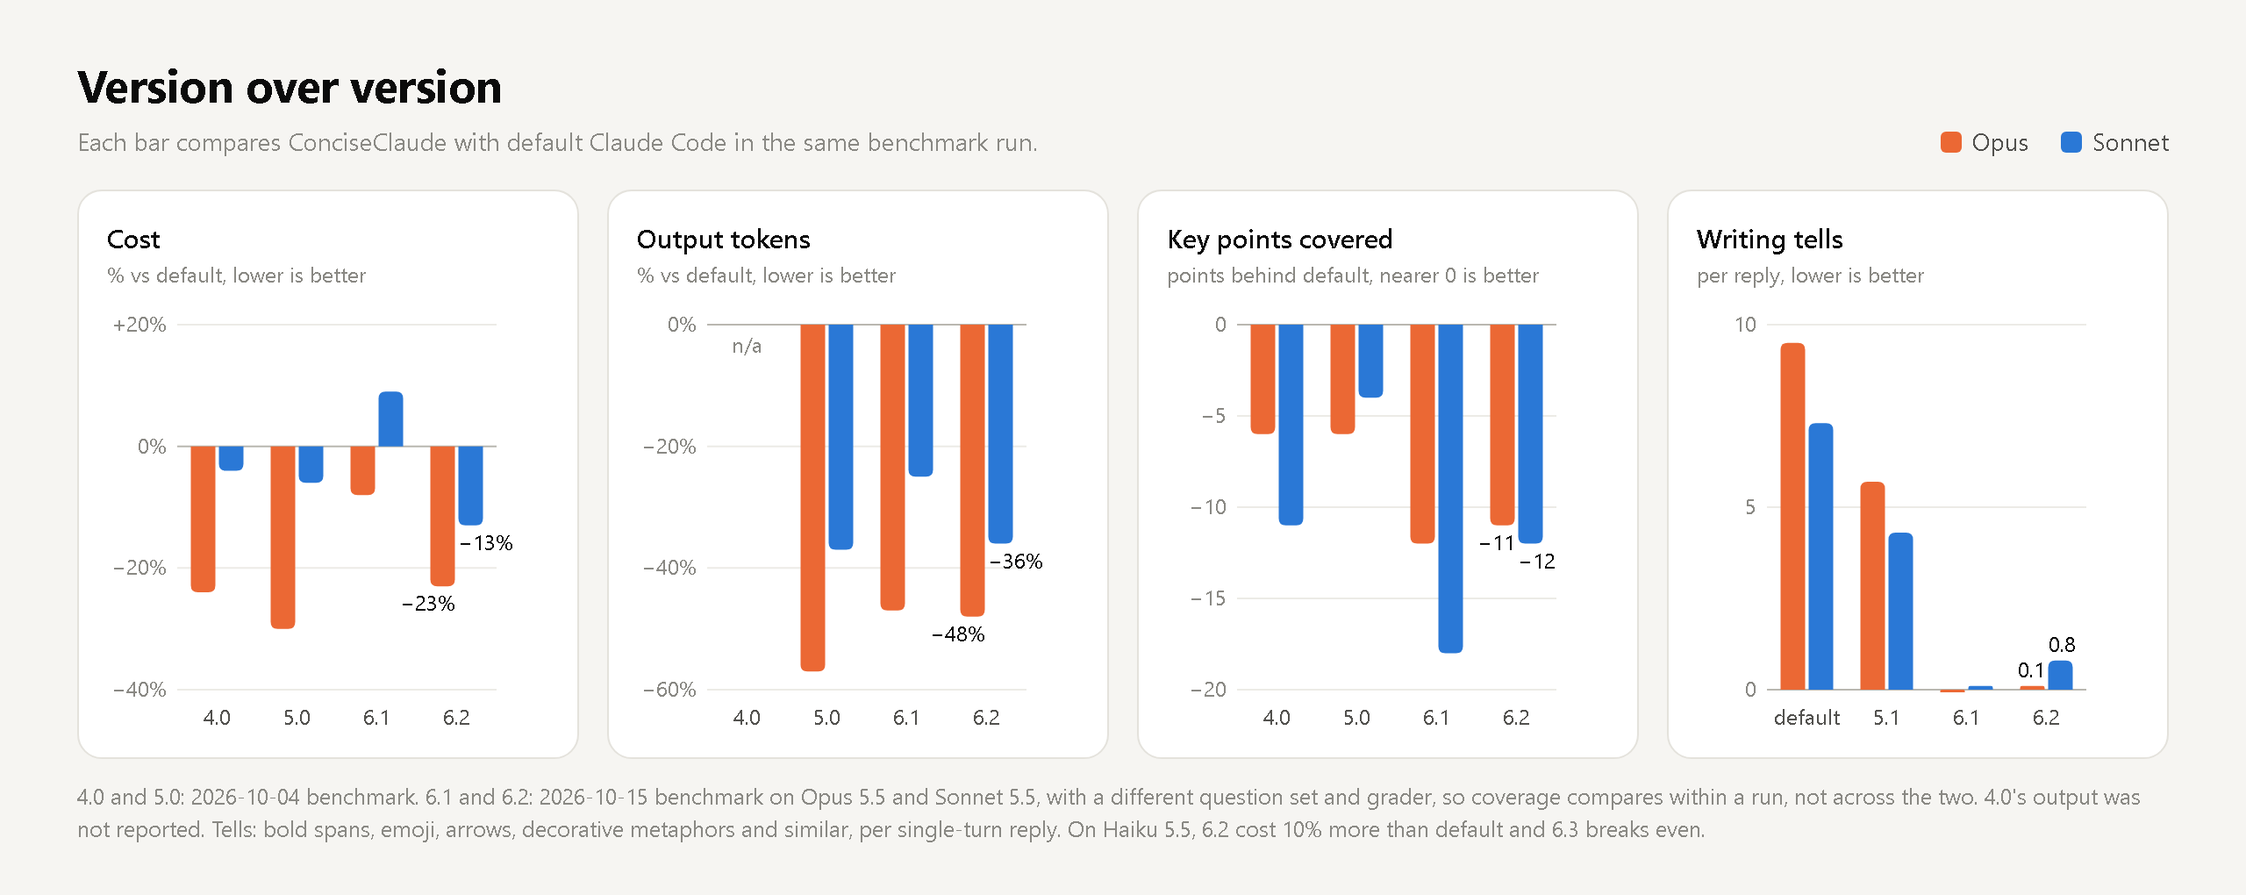
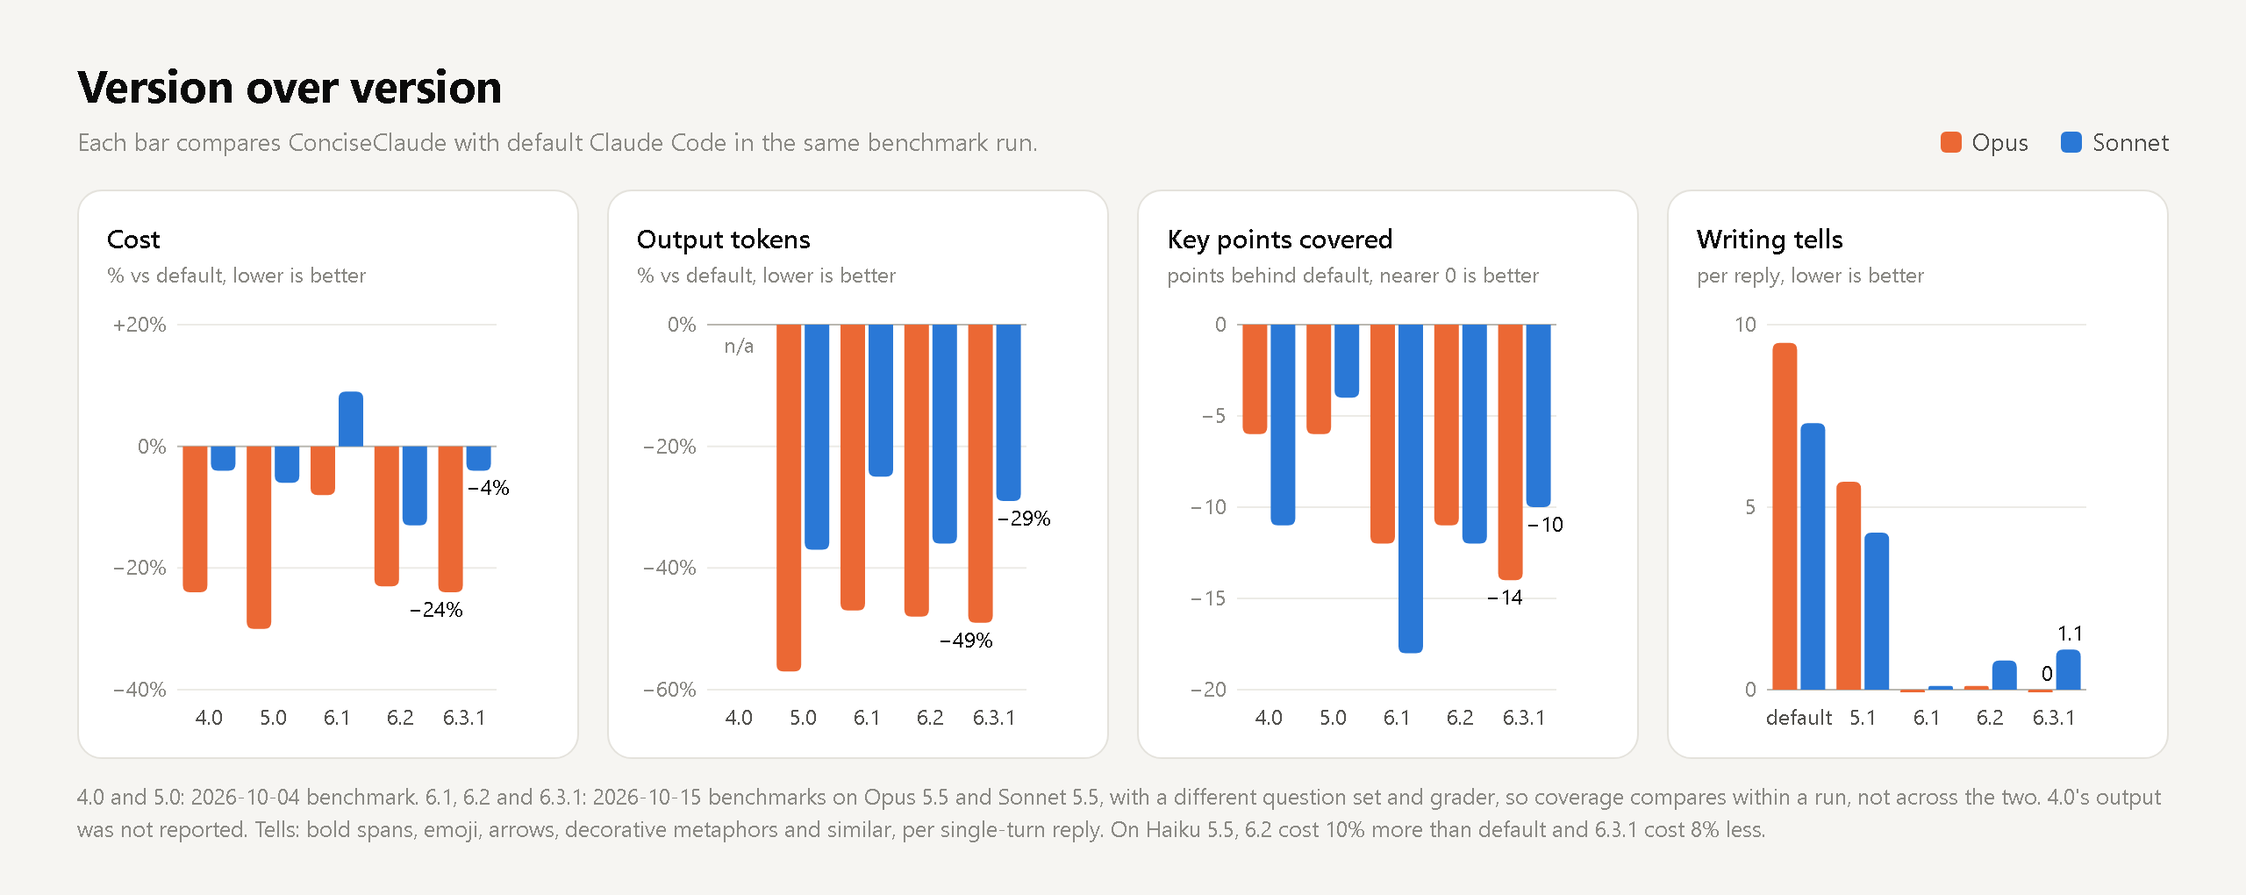
Benchmark 6.3.1 on Opus, Sonnet and Haiku (#20)
Default against 6.3.1 on all three 5.5 models, every case twice, 348
turns, single-turn replies graded blind. Cost fell 24% on Opus, 4% on
Sonnet and 8% on Haiku; coverage 83 to 88% against 92 to 97%. The README
charts, write-up and Pages site now show 6.3.1, and the version chart
gains a 6.3.1 column.

Claude-Session: https://claude.ai/code/session_01UvB1AdHypAfKyfQqcSoAv2

diff --git a/assets/src/results.html b/assets/src/results.html
@@ -1,15 +1,15 @@
 <!doctype html>
 <html><head><meta charset="utf-8">
 <style>
-:root { --bg:#f6f5f2; --card:#ffffff; --border:#e4e2dc; --ink:#0b0b0b; --ink2:#52514e; --muted:#8a8984; --s:#2a78d6; --o:#eb6834; --grid:#ecebe6; }
-@media (prefers-color-scheme: dark) { :root { --bg:#141413; --card:#1d1d1b; --border:#2e2e2b; --ink:#f5f4ef; --ink2:#c3c2b7; --muted:#8f8e86; --s:#3987e5; --o:#d95926; --grid:#2a2a27; } }
+:root { --bg:#f6f5f2; --card:#ffffff; --border:#e4e2dc; --ink:#0b0b0b; --ink2:#52514e; --muted:#8a8984; --s:#2a78d6; --o:#eb6834; --h:#1baf7a; --grid:#ecebe6; }
+@media (prefers-color-scheme: dark) { :root { --bg:#141413; --card:#1d1d1b; --border:#2e2e2b; --ink:#f5f4ef; --ink2:#c3c2b7; --muted:#8f8e86; --s:#3987e5; --o:#d95926; --h:#199e70; --grid:#2a2a27; } }
 * { box-sizing: border-box; margin: 0; }
-html, body { width: 1280px; height: 420px; background: var(--bg); color: var(--ink); font: 16px/1.4 "Segoe UI", system-ui, sans-serif; }
+html, body { width: 1280px; height: 490px; background: var(--bg); color: var(--ink); font: 16px/1.4 "Segoe UI", system-ui, sans-serif; }
 .wrap { padding: 36px 56px; }
-.top { display: flex; justify-content: space-between; align-items: baseline; margin-bottom: 22px; }
+.top { display: flex; gap: 40px; justify-content: space-between; align-items: baseline; margin-bottom: 22px; }
 h2 { font-size: 26px; font-weight: 700; letter-spacing: -0.01em; }
 .sub { color: var(--muted); font-size: 14px; margin-top: 4px; }
-.legend { display: flex; gap: 18px; font-size: 14px; color: var(--ink2); }
+.legend { display: flex; flex-shrink: 0; white-space: nowrap; gap: 18px; font-size: 14px; color: var(--ink2); }
 .sw { display: inline-block; width: 12px; height: 12px; border-radius: 3px; margin-right: 6px; vertical-align: -1px; }
 .grid { display: grid; grid-template-columns: 1.5fr 1fr; gap: 20px; }
 .card { background: var(--card); border: 1px solid var(--border); border-radius: 14px; padding: 22px 26px; }
@@ -17,34 +17,36 @@ h2 { font-size: 26px; font-weight: 700; letter-spacing: -0.01em; }
 .row { display: grid; grid-template-columns: 130px 1fr; align-items: center; margin: 10px 0; }
 .row .lab { font-size: 14px; color: var(--ink2); }
 .bars { display: grid; gap: 4px; }
-.bar { height: 18px; border-radius: 0 4px 4px 0; position: relative; }
-.bar span { position: absolute; left: calc(100% + 8px); top: -1px; font-size: 13px; font-weight: 600; color: var(--ink); white-space: nowrap; }
+.bar { height: 14px; border-radius: 0 4px 4px 0; position: relative; }
+.bar span { position: absolute; left: calc(100% + 8px); top: -3px; font-size: 13px; font-weight: 600; color: var(--ink); white-space: nowrap; }
 .cov { display: grid; grid-template-columns: 1fr auto auto; gap: 10px 22px; align-items: baseline; font-size: 14px; }
 .cov .h { color: var(--muted); font-size: 12.5px; }
 .cov b { font-size: 22px; font-weight: 700; }
+.bar span em { font-style: normal; font-weight: 400; color: var(--ink2); margin-left: 6px; }
 .note { color: var(--muted); font-size: 12.5px; margin-top: 14px; line-height: 1.45; }
 </style></head>
 <body><div class="wrap">
   <div class="top">
-    <div><h2>Measured, not promised</h2><p class="sub">Opus 5.5 and Sonnet 5.5, default vs ConciseClaude 6.2, every case run twice, depth question excluded. Single-turn replies graded blind against key-point checklists.</p></div>
-    <div class="legend"><span><i class="sw" style="background:var(--s)"></i>Sonnet</span><span><i class="sw" style="background:var(--o)"></i>Opus</span></div>
+    <div><h2>Measured, not promised</h2><p class="sub">Opus, Sonnet and Haiku 5.5, default vs ConciseClaude 6.3.1, every case run twice, depth question excluded. Single-turn replies graded blind against key-point checklists.</p></div>
+    <div class="legend"><span><i class="sw" style="background:var(--o)"></i>Opus</span><span><i class="sw" style="background:var(--s)"></i>Sonnet</span><span><i class="sw" style="background:var(--h)"></i>Haiku</span></div>
   </div>
   <div class="grid">
     <div class="card">
       <h3>Reduction vs default</h3>
-      <div class="row"><div class="lab">Reply length</div><div class="bars"><div class="bar" style="width:61%;background:var(--s)"><span>−61%</span></div><div class="bar" style="width:64%;background:var(--o)"><span>−64%</span></div></div></div>
-      <div class="row"><div class="lab">Output tokens</div><div class="bars"><div class="bar" style="width:36%;background:var(--s)"><span>−36%</span></div><div class="bar" style="width:48%;background:var(--o)"><span>−48%</span></div></div></div>
-      <div class="row"><div class="lab">Wait time</div><div class="bars"><div class="bar" style="width:22%;background:var(--s)"><span>−22%</span></div><div class="bar" style="width:34%;background:var(--o)"><span>−34%</span></div></div></div>
-      <div class="row"><div class="lab">Cost</div><div class="bars"><div class="bar" style="width:13%;background:var(--s)"><span>−13%</span></div><div class="bar" style="width:23%;background:var(--o)"><span>−23%</span></div></div></div>
+      <div class="row"><div class="lab">Reply length</div><div class="bars"><div class="bar" style="width:67%;background:var(--o)"><span>−67%<em>Opus</em></span></div><div class="bar" style="width:60%;background:var(--s)"><span>−60%<em>Sonnet</em></span></div><div class="bar" style="width:46%;background:var(--h)"><span>−46%<em>Haiku</em></span></div></div></div>
+      <div class="row"><div class="lab">Output tokens</div><div class="bars"><div class="bar" style="width:49%;background:var(--o)"><span>−49%</span></div><div class="bar" style="width:29%;background:var(--s)"><span>−29%</span></div><div class="bar" style="width:28%;background:var(--h)"><span>−28%</span></div></div></div>
+      <div class="row"><div class="lab">Wait time</div><div class="bars"><div class="bar" style="width:37%;background:var(--o)"><span>−37%</span></div><div class="bar" style="width:17%;background:var(--s)"><span>−17%</span></div><div class="bar" style="width:17%;background:var(--h)"><span>−17%</span></div></div></div>
+      <div class="row"><div class="lab">Cost</div><div class="bars"><div class="bar" style="width:24%;background:var(--o)"><span>−24%</span></div><div class="bar" style="width:4%;background:var(--s)"><span>−4%</span></div><div class="bar" style="width:8%;background:var(--h)"><span>−8%</span></div></div></div>
     </div>
     <div class="card">
       <h3>What it keeps</h3>
       <div class="cov">
         <span class="h">Key points covered</span><span class="h">Default</span><span class="h">Concise</span>
-        <span>Sonnet</span><b>95%</b><b>83%</b>
-        <span>Opus</span><b>98%</b><b>87%</b>
+        <span>Opus</span><b>97%</b><b>83%</b>
+        <span>Sonnet</span><b>94%</b><b>84%</b>
+        <span>Haiku</span><b>92%</b><b>88%</b>
       </div>
-      <p class="note">Asked for depth, it gives depth. No reply was judged too terse. Cost falls most in conversation, is level in coding, and rises only for a single cold question.</p>
+      <p class="note">Asked for depth, it gives depth. No reply was judged too terse. The saving is in conversation; a coding session or a single cold question costs about the same as default or a little more.</p>
     </div>
   </div>
 </div></body></html>

diff --git a/assets/src/versions.html b/assets/src/versions.html
@@ -24,18 +24,18 @@ svg text { font: 12px "Segoe UI", system-ui, sans-serif; }
     <div class="legend"><span><i class="sw" style="background:var(--o)"></i>Opus</span><span><i class="sw" style="background:var(--s)"></i>Sonnet</span></div>
   </div>
   <div class="grid" id="grid"></div>
-  <p class="note">4.0 and 5.0: 2026-10-04 benchmark. 6.1 and 6.2: 2026-10-15 benchmark on Opus 5.5 and Sonnet 5.5, with a different question set and grader, so coverage compares within a run, not across the two. 4.0's output was not reported. Tells: bold spans, emoji, arrows, decorative metaphors and similar, per single-turn reply. On Haiku 5.5, 6.2 cost 10% more than default and 6.3 breaks even.</p>
+  <p class="note">4.0 and 5.0: 2026-10-04 benchmark. 6.1, 6.2 and 6.3.1: 2026-10-15 benchmarks on Opus 5.5 and Sonnet 5.5, with a different question set and grader, so coverage compares within a run, not across the two. 4.0's output was not reported. Tells: bold spans, emoji, arrows, decorative metaphors and similar, per single-turn reply. On Haiku 5.5, 6.2 cost 10% more than default and 6.3.1 cost 8% less.</p>
 </div>
 <script>
 const panels = [
-  { title: "Cost", sub: "% vs default, lower is better", x: ["4.0", "5.0", "6.1", "6.2"],
-    opus: [-24, -30, -8, -23], sonnet: [-4, -6, 9, -13], min: -40, max: 20, step: 20, unit: "%" },
-  { title: "Output tokens", sub: "% vs default, lower is better", x: ["4.0", "5.0", "6.1", "6.2"],
-    opus: [null, -57, -47, -48], sonnet: [null, -37, -25, -36], min: -60, max: 0, step: 20, unit: "%" },
-  { title: "Key points covered", sub: "points behind default, nearer 0 is better", x: ["4.0", "5.0", "6.1", "6.2"],
-    opus: [-6, -6, -12, -11], sonnet: [-11, -4, -18, -12], min: -20, max: 0, step: 5, unit: "" },
-  { title: "Writing tells", sub: "per reply, lower is better", x: ["default", "5.1", "6.1", "6.2"],
-    opus: [9.5, 5.7, 0, 0.1], sonnet: [7.3, 4.3, 0.1, 0.8], min: 0, max: 10, step: 5, unit: "" },
+  { title: "Cost", sub: "% vs default, lower is better", x: ["4.0", "5.0", "6.1", "6.2", "6.3.1"],
+    opus: [-24, -30, -8, -23, -24], sonnet: [-4, -6, 9, -13, -4], min: -40, max: 20, step: 20, unit: "%" },
+  { title: "Output tokens", sub: "% vs default, lower is better", x: ["4.0", "5.0", "6.1", "6.2", "6.3.1"],
+    opus: [null, -57, -47, -48, -49], sonnet: [null, -37, -25, -36, -29], min: -60, max: 0, step: 20, unit: "%" },
+  { title: "Key points covered", sub: "points behind default, nearer 0 is better", x: ["4.0", "5.0", "6.1", "6.2", "6.3.1"],
+    opus: [-6, -6, -12, -11, -14], sonnet: [-11, -4, -18, -12, -10], min: -20, max: 0, step: 5, unit: "" },
+  { title: "Writing tells", sub: "per reply, lower is better", x: ["default", "5.1", "6.1", "6.2", "6.3.1"],
+    opus: [9.5, 5.7, 0, 0.1, 0], sonnet: [7.3, 4.3, 0.1, 0.8, 1.1], min: 0, max: 10, step: 5, unit: "" },
 ];
 const W = 250, H = 250, L = 40, R = 28, T = 16, B = 26, BAR = 14, GAP = 2;
 const ns = "http://www.w3.org/2000/svg";

diff --git a/docs/index.html b/docs/index.html
@@ -4,7 +4,7 @@
 <meta charset="utf-8">
 <meta name="viewport" content="width=device-width, initial-scale=1">
 <title>ConciseClaude: Claude Code that gets to the point</title>
-<meta name="description" content="A Claude Code plugin for shorter answers with the same work behind them. Benchmarked: Opus replies 64% shorter at 23% lower cost.">
+<meta name="description" content="A Claude Code plugin for shorter answers with the same work behind them. Benchmarked: Opus replies 67% shorter at 24% lower cost.">
 <meta property="og:title" content="ConciseClaude">
 <meta property="og:description" content="Claude Code that gets to the point. Same work, a third of the words.">
 <meta property="og:image" content="https://raw.githubusercontent.com/drknowhow/ConciseClaude/main/assets/hero-light.png">
@@ -61,9 +61,9 @@ claude plugin install conciseclaude@conciseclaude</pre>
   </div>
 
   <h2>Benchmarked</h2>
-  <p>Default against ConciseClaude 6.2 on Opus 5.5, Sonnet 5.5 and Haiku 5.5, every case run twice, single-turn replies graded blind against key-point checklists. On Opus, replies came out 64% shorter, cost fell 23% and answers arrived 34% sooner, while covering 87% of key points against 98% for the default. Sonnet cost fell 13%; Haiku broke even.</p>
+  <p>Default against ConciseClaude 6.3.1 on Opus 5.5, Sonnet 5.5 and Haiku 5.5, every case run twice, single-turn replies graded blind against key-point checklists. On Opus, replies came out 67% shorter, cost fell 24% and answers arrived 37% sooner, while covering 83% of key points against 97% for the default. Cost fell 4% on Sonnet and 8% on Haiku.</p>
   <div class="cta">
-    <a class="btn primary" href="https://github.com/drknowhow/ConciseClaude/blob/main/docs/bench-2026-10-15-v6.md">Read the 6.2 benchmark</a>
+    <a class="btn primary" href="https://github.com/drknowhow/ConciseClaude/blob/main/docs/bench-2026-10-15-v6.md">Read the 6.3.1 benchmark</a>
     <a class="btn ghost" href="benchmark/">5.0 interactive benchmark</a>
     <a class="btn ghost" href="https://github.com/drknowhow/ConciseClaude">View on GitHub</a>
   </div>

diff --git a/README.md b/README.md
@@ -7,7 +7,7 @@
 <p align="center"><b>Claude Code that gets to the point. Same work, a third of the words.</b></p>
 
 <p align="center">
-  <a href="docs/bench-2026-10-15-v6.md"><img src="https://img.shields.io/badge/benchmark-6.2,_graded_blind-2a78d6" alt="Benchmark"></a>
+  <a href="docs/bench-2026-10-15-v6.md"><img src="https://img.shields.io/badge/benchmark-6.3.1,_graded_blind-2a78d6" alt="Benchmark"></a>
   <a href="CHANGELOG.md"><img src="https://img.shields.io/badge/dynamic/json?url=https%3A%2F%2Fraw.githubusercontent.com%2Fdrknowhow%2FConciseClaude%2Fmain%2F.claude-plugin%2Fplugin.json&query=%24.version&label=version&color=1baf7a" alt="Version"></a>
   <img src="https://img.shields.io/badge/Claude_Code-plugin-eb6834" alt="Claude Code plugin">
   <a href="LICENSE"><img src="https://img.shields.io/badge/license-Apache--2.0-52514e" alt="License"></a>
@@ -29,18 +29,18 @@ you get it, and errors, risks and safety steps are never trimmed. Code comes
 without commentary, and a meter measures every reply so the rules don't
 drift.
 
-In the 6.2 benchmark ([write-up](docs/bench-2026-10-15-v6.md)), replies on
-Opus 5.5 and Sonnet 5.5 were about 62% shorter, output tokens fell 48% and
-36%, and replies arrived 34% and 22% sooner. Cost fell 23% on Opus and 13%
-on Sonnet: most in conversation, level in coding, slightly up only for a
-single cold question. Blind graders found 85% of the key points a full
-answer covers, against 96% for the default, with no reply judged too terse.
+In the 6.3.1 benchmark ([write-up](docs/bench-2026-10-15-v6.md)), replies
+were 67% shorter on Opus 5.5, 60% on Sonnet 5.5 and 46% on Haiku 5.5. Cost
+fell 24%, 4% and 8%. The saving is in conversation; a coding session or a
+single cold question costs about the same as default or a little more.
+Blind graders found 83 to 88% of the key points a full answer covers,
+against 92 to 97% for the default, with no reply judged too terse.
 A Stop hook scores every reply and nudges Claude when one runs long;
 `/conciseclaude:meter report` shows how it's doing.
 
 <picture>
   <source media="(prefers-color-scheme: dark)" srcset="assets/results-dark.png">
-  <img src="assets/results-light.png" alt="Benchmark: reply length, output tokens, wait time and cost reductions on Sonnet and Opus, with key points covered.">
+  <img src="assets/results-light.png" alt="Benchmark of 6.3.1: reply length, output tokens, wait time and cost reductions on Opus, Sonnet and Haiku, with key points covered.">
 </picture>
 
 ## Install
@@ -55,9 +55,8 @@ is enabled, even if you've chosen another output style. To turn it off, run
 from Git Bash. Without Python the rules still apply; replies just aren't
 measured.
 
-The rules apply to Opus, Sonnet and Haiku. On Haiku 5.5 the plugin breaks
-even on cost: most of Haiku's output is hidden thinking, which the style
-doesn't shorten, so the saving on replies only pays for the rule text.
+The rules apply to Opus, Sonnet and Haiku. Haiku saves the least: most of
+its output is hidden thinking, which the style doesn't shorten.
 
 To upgrade, run `claude plugin update conciseclaude@conciseclaude` and
 restart. To measure commits too, run `/conciseclaude:diff-hooks` in each repo
@@ -117,8 +116,8 @@ The rules name each pattern and give the replacement: cut points instead of
 words, use the literal word, say what was checked and what wasn't. The
 `human-prose` skill applies the same list to PR descriptions, docs and
 email. The meter counts the patterns in every reply and `report` shows the
-rates. In the 6.2 benchmark they fell from 7 to 10 per reply on the default
-style to under one.
+rates. In the 6.3.1 benchmark they fell from 7 to 9 per reply on the
+default style to none on Opus, one on Sonnet and two on Haiku.
 
 ## What code and repo text look like
 The same rule set covers what Claude writes for other people to maintain
@@ -177,18 +176,20 @@ exceptions, forensic comments, dividers) and only warns on ratios.
 ## Evidence
 <picture>
   <source media="(prefers-color-scheme: dark)" srcset="assets/versions-dark.png">
-  <img src="assets/versions-light.png" alt="Versions 4.0, 5.0, 6.1 and 6.2 against the default style on Opus and Sonnet: cost, output tokens, key points covered, and writing tells per reply.">
+  <img src="assets/versions-light.png" alt="Versions 4.0, 5.0, 6.1, 6.2 and 6.3.1 against the default style on Opus and Sonnet: cost, output tokens, key points covered, and writing tells per reply.">
 </picture>
 
 Each release against the default style. 4.0 and 5.0 come from the
 2026-10-04 benchmark ([interactive page](https://drknowhow.github.io/ConciseClaude/benchmark/)),
-6.1 and 6.2 from the 2026-10-15 run ([write-up](docs/bench-2026-10-15-v6.md)),
+6.1 to 6.3.1 from the 2026-10-15 runs ([write-up](docs/bench-2026-10-15-v6.md)),
 which used a different question set and grader, so compare coverage within
 a run rather than across the two. 6.1 cut the writing tells to near zero but
 cost more than 5.0, mostly from longer rule text; 6.2 halved that text and
-won most of the cost back. Coverage is the open gap: 6.2 covers 85% of key
-points against 96% for the default. Haiku isn't plotted; there 6.2 cost 10%
-more than the default and 6.3 breaks even.
+won most of the cost back. Sonnet's saving varies most between runs: 13% for
+6.2 and 4% for 6.3.1, with the same rules apart from one line about Haiku.
+Coverage is the open gap: 6.3.1 covers 83% of key points on Opus and 84% on
+Sonnet, against 97% and 94% for the default. Haiku isn't plotted; there 6.2
+cost 10% more than the default and 6.3.1 8% less.
 
 An earlier controlled A/B on Sonnet ([write-up](docs/token-ab-2026-10-03.md))
 found the same shape in six-turn conversations: output tokens fell 28% and

diff --git a/docs/bench-2026-10-15-v6.md b/docs/bench-2026-10-15-v6.md
@@ -1,4 +1,40 @@
-# 6.1 and 6.2 benchmarks, 2026-10-15
+# 6.1, 6.2 and 6.3.1 benchmarks, 2026-10-15
+
+## 6.3.1: Opus, Sonnet and Haiku
+
+Default against 6.3.1 on Opus 5.5, Sonnet 5.5 and Haiku 5.5, with the same
+questions, conversations and rubric as 6.2. Every case ran twice: 348 turns,
+$24.01 at API-rate estimates. Three Sonnet subagents graded the 120
+single-turn replies blind, 40 each, with both arms shuffled together.
+
+| | Opus | Sonnet | Haiku |
+|---|---:|---:|---:|
+| Median reply prose, single-turn | 566 vs 1,708 (−67%) | 578 vs 1,432 (−60%) | 839 vs 1,546 (−46%) |
+| Output tokens, all but depth | −49% | −29% | −28% |
+| Wall time, all but depth | −37% | −17% | −17% |
+| Cost, all but depth | −24% | −4% | −8% |
+| Six-turn conversations, ops and design | −39%, −52% | −23%, −11% | −30%, −27% |
+| Six-turn coding session | +4% | +10% | +13% |
+| Single cold calls | +1% | +12% | +2% |
+| Key points covered (default) | 83% (97%) | 84% (94%) | 88% (92%) |
+| Writing tells per reply (default) | 0 (8.7) | 1.1 (8.2) | 2.2 (7.2) |
+| Replies opening with the status tag | 100% | 83% | 72% |
+
+No reply was judged too terse, and the graders found 5 factual errors in
+6.3.1's replies against 6 in default's.
+
+Opus matches 6.2. Haiku did better than the trial that led to 6.3, which
+broke even, with most of the saving in conversation. Sonnet saved less than
+in 6.2's run (−13%): the design conversation saved 11% against 33%, and the
+coding session cost 10% more against 1% less. The only rule text changed
+since 6.2 is the removed line telling Haiku to ignore the style, and the
+same Sonnet coding session has ranged from −1% to +30% across runs, so the
+gap is probably run-to-run variance. One difference does look real: 3 of
+18 Sonnet replies opened with a label such as `**Review:**` instead of the
+status tag, which 6.2 never did in 36.
+
+Coverage lost most on the CI import error (Opus −36 points), the
+rate-limiting plan (Sonnet −29) and the code review (Opus −25).
 
 ## 6.2: cheaper than default on both models
 
@@ -140,8 +176,7 @@ Opus opened 89% of replies with a status tag and Sonnet 28%.
 
 ## Next
 
-- A rule that the answer covers every part the question asks for, including
-  the core distinction an explanation turns on and the choice a plan
-  depends on, then a rerun of the same rubric.
-- Shorter style and code-rule text, to bring single-call and coding costs
-  down.
+- Coverage: 6.3.1 still covers 4 to 14 points less than default, most on
+  diagnosis, plans and reviews.
+- Sonnet's cost and status-tag rate, rerun with more repetitions to tell
+  variance from a real change.

diff --git a/CHANGELOG.md b/CHANGELOG.md
@@ -17,7 +17,8 @@ this file disagree with it.
   place of bold-label bullets, a shorter Evidence section, and the 3.x
   migration steps moved to `IMPLEMENT.md`. `IMPLEMENT.md` now lists all
   three hook entries to remove on uninstall and runs every test file.
-- The Pages site leads with the 6.2 benchmark write-up.
+- The Pages site leads with the benchmark write-up, which now includes a
+  6.3.1 run on Opus, Sonnet and Haiku; the README charts show it.
 
 ## 6.3.0 (2026-10-15)
 - Haiku gets the whole rule set: the style no longer tells Haiku to ignore
